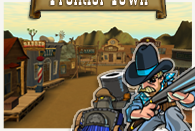
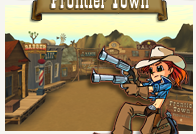
New artwork to front page layout!

diff --git a/pages/style.css b/pages/style.css
@@ -3,6 +3,7 @@ body {
   font-family: Times New Roman, Times, serif;
   font-size: 14px;
   text-align: center;
+  margin-top: 0px;
 }
 
 img {
@@ -32,6 +33,11 @@ td {
 .small {
   font-family: Arial, Helvetica, sans-serif;
   font-size: 10px;
+}
+
+a.small, a.small:link, a.small:visited, a.small:hover, a.small:active {
+   text-decoration: underline;
+   color: #054e81;
 }
 
 a {
@@ -67,7 +73,7 @@ li {
 	margin-bottom: 5px;
 	padding: 0px;
 	width: 810px;
-	height: 159px;
+	height: 184px;
 	overflow: hidden;
 }
 
@@ -75,8 +81,8 @@ li {
   	position: absolute;
  	width: 225px;
   	height: 110px;
-  	top: 10px;
-  	left: 290px;
+  	top: 5px;
+  	left: 30px;
   	margin: 0px;
   	padding: 0px;
   	text-decoration: none;
@@ -89,10 +95,10 @@ li {
 
 #linkplay a {
   	position: absolute;
- 	width: 47px;
-  	height: 19px;
-  	top: 134px;
-  	left: 139px;
+ 	width: 53px;
+  	height: 16px;
+  	top: 161px;
+  	left: 140px;
   	margin: 0px;
   	padding: 0px;
   	text-decoration: none;
@@ -110,10 +116,10 @@ a#btnplay:hover {
 
 #linkscreen a {
   	position: absolute;
- 	width: 103px;
-  	height: 19px;
-  	top: 134px;
-  	left: 236px;
+ 	width: 102px;
+  	height: 16px;
+  	top: 161px;
+  	left: 239px;
   	margin: 0px;
   	padding: 0px;
   	text-decoration: none;
@@ -131,10 +137,10 @@ a#btnscreen:hover {
 
 #linkforum a {
   	position: absolute;
- 	width: 61px;
-  	height: 19px;
-  	top: 134px;
-  	left: 389px;
+ 	width: 58px;
+  	height: 16px;
+  	top: 161px;
+  	left: 390px;
   	margin: 0px;
   	padding: 0px;
   	text-decoration: none;
@@ -153,9 +159,9 @@ a#btnforum:hover {
 #linkaccount a {
   	position: absolute;
  	width: 68px;
-  	height: 19px;
-  	top: 134px;
-  	left: 499px;
+  	height: 16px;
+  	top: 161px;
+  	left: 497px;
   	margin: 0px;
   	padding: 0px;
   	text-decoration: none;
@@ -173,10 +179,10 @@ a#btnaccount:hover {
 
 #linknews a {
   	position: absolute;
- 	width: 41px;
-  	height: 19px;
-  	top: 134px;
-  	left: 617px;
+ 	width: 39px;
+  	height: 16px;
+  	top: 161px;
+  	left: 620px;
   	margin: 0px;
   	padding: 0px;
   	text-decoration: none;
@@ -209,14 +215,14 @@ a#btnnews:hover {
 ------------------------------------------------- */
 
 #Divide {
-    background-image: url("/images/footer/footer.gif");
+    background-image: url("/images/footer/footer.png");
 	position: relative;
 	top: 0px;
 	right: 0px;
 	margin: 0px;
 	padding:0px;
 	width: 810px;
-	height: 33px;
+	height: 32px;
 }
 
 #linklogo a {

diff --git a/pages/css/index.css b/pages/css/index.css
@@ -18,10 +18,10 @@
 ------------------------------------------------- */
 #linkplayB a {
   	position: absolute;
- 	width: 266px;
-  	height: 80px;
-  	top: 294px;
-  	left: 129px;
+ 	width: 275px;
+  	height: 89px;
+  	top: 284px;
+  	left: 119px;
   	margin: 0px;
   	padding: 0px;
   	text-decoration: none;
@@ -40,10 +40,10 @@ a#btnplayB:hover {
 
 #linkdl a {
   	position: absolute;
- 	width: 90px;
-  	height: 16px;
-  	top: 381px;
-  	left: 162px;
+ 	width: 107px;
+  	height: 23px;
+  	top: 377px;
+  	left: 151px;
   	margin: 0px;
   	padding: 0px;
   	text-decoration: none;
@@ -61,9 +61,9 @@ a#btndl:hover {
 
 #linkblog a {
   	position: absolute;
- 	width: 120px;
-  	height: 22px;
-  	top: 472px;
+ 	width: 131px;
+  	height: 24px;
+  	top: 469px;
   	left: 214px;
   	margin: 0px;
   	padding: 0px;
@@ -83,10 +83,10 @@ a#btnblog:hover {
 
 #linkfrontier a {
   	position: absolute;
- 	width: 195px;
-  	height: 131px;
-  	top: 76px;
-  	left: 557px;
+ 	width: 196px;
+  	height: 134px;
+  	top: 73px;
+  	left: 553px;
   	margin: 0px;
   	padding: 0px;
   	text-decoration: none;
@@ -104,10 +104,10 @@ a#btnfrontier:hover {
 
 #linkitp a {
   	position: absolute;
- 	width: 195px;
-  	height: 130px;
-  	top: 258px;
-  	left: 557px;
+ 	width: 196px;
+  	height: 133px;
+  	top: 256px;
+  	left: 553px;
   	margin: 0px;
   	padding: 0px;
   	text-decoration: none;

diff --git a/pages/incl/footer_incl.html b/pages/incl/footer_incl.html
@@ -8,9 +8,9 @@
 </div>
 <div id="Footer" class="small">
     Bang! Howdy&trade; &copy;
-    <a href="http://www.threerings.net/">Three Rings Design, Inc.</a>
+    <a href="http://www.threerings.net/" class="small">Three Rings Design, Inc.</a>
     2005-2006. All rights reserved.
-    <a href="http://www.threerings.net/about/privacy.html">Privacy</a>
+    <a href="http://www.threerings.net/about/privacy.html" class="small">Privacy</a>
 </div>
 
 </div>
